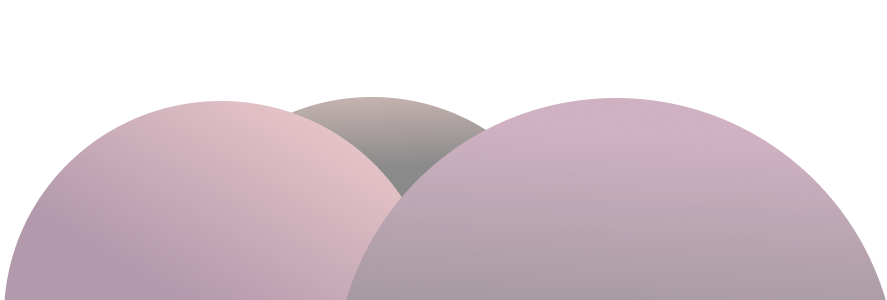
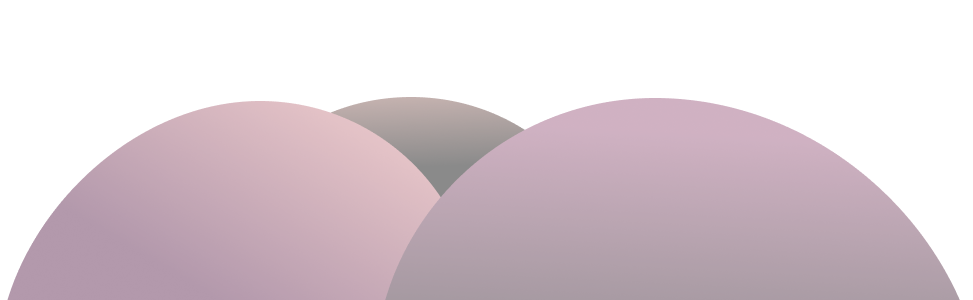
first commit

diff --git a/index.html b/index.html
@@ -1,56 +1,120 @@
 <!DOCTYPE html>
 <html lang="en">
+
 <head>
-    <meta charset="UTF-8">
-    <meta name="viewport" content="width=device-width, initial-scale=1.0">
-    <link rel="stylesheet" href="styles.css">
-    <link href="https://fonts.googleapis.com/css?family=Merriweather|Montserrat|Sacramento&amp;display=swap" rel="stylesheet">
-    <title>Probhakar</title>
+  <meta charset="UTF-8">
+  <meta name="viewport" content="width=device-width, initial-scale=1.0">
+  <link rel="stylesheet" href="styles.css">
+  <link href="https://fonts.googleapis.com/css?family=Merriweather|Montserrat|Sacramento&amp;display=swap" rel="stylesheet">
+  <link rel="icon" href="icons/favicon.ico">
+  <title>Probhakar</title>
 </head>
 
 <body>
-    <div class="top-box">
-        <img src="images/cloud.png" alt="cloud_image" class="top-cloud">
-        <h1 class="my-name">I'm Probhakar</h1>
-        <h3 class="about-me-description">love to build stuffs</h3>
-        <img src="images/balloon.png" alt="balloon_image" class="balloon-image">
-        <img src="images/cloud.png" alt="cloud_image" class="bottom-cloud">
-        <img src="images/ground.png" alt="ground_image" class="ground">
-    </div>
+  <div class="top-box">
+    <img src="images/cloud.png" alt="cloud_image" class="top-cloud">
+    <h1 class="my-name">I'm Probhakar</h1>
+    <h3 class="about-me-description">love to build stuff</h3>
+    <img src="images/balloon.png" alt="balloon_image" class="balloon-image">
+    <img src="images/cloud.png" alt="cloud_image" class="bottom-cloud">
+    <img src="images/ground.png" alt="ground_image" class="ground">
+  </div>
 
-    <div class="middle-box">
-        <img src="images/personal_photo.jpg" alt="profile_picture" class="avatar">
-        <h1>Hi.</h1>
-        <p class="my-description">I am assistant manager at Maruti Suzuki India Ltd. I love to make stuffs. Coding helps me to express things that I can imagine.
-             I am verry passionate about solving real world problems with the help of programming</p>
-        <div class="spacing"></div>
-        <hr class="horizontal-rilar">
-        <div class="spacing"></div>
-        <h1>What I love to do</h1>
-        <div class="spacing"></div>
-        <div>
-            <div class="image-holder float-left margin-right"><img src="images/processor.png" alt="processor_image"></div>
-            <h3>Electronic hobbyist</h3>
-            <p class="skill-details">First circuit that I made was a water level meter using salt-waler, pencil graphite, batteries and a LED salveged from a torch light.
-                The love for electronics continued then onwards. Every electronic hobbyist have to come across 555 timer, flipflop or LM714. I spend a lot of time making 
-                electronic gadgets like intruder detection with PIC sensor, simple ones like automatic street lamp using LDR sensors. I was also amazed to see the power of 
-                development boards like Arduino or Raspberry pi. Later I also did IoT projects with IBM Watson. What I find intriguing is that complex-real problems can be 
-                solved with these gadgets and the possibility is infinite.
-            </p>
-        </div>
-        <div class="spacing"></div>
-        <div>
-            <h3>Love to build software</h3>
-            <div class="image-holder"><img src="images/coding.png" alt="coding_image"></div>
-        </div>
-        <div>
-            <div class="image-holder"><img src="images/cooking.png" alt="coding_image"></div>
-            <h3>Cooking</h3>
-        </div>
-        <div>
-            <h3>Writing and sketching</h3>
-            <div class="image-holder"><img src="images/poem.png" alt="coding_image"></div>
-        </div>
+  <div class="middle-box">
+    <img src="images/personal_photo.jpg" alt="profile_picture" class="avatar">
+    <h1>Hi.</h1>
+    <p class="my-description">I am an assistant manager at Maruti Suzuki India Ltd. Coding helps me to express things that I can imagine.
+      I am very passionate about solving real-world problems with the help of programming</p>
+    <div class="spacing"></div>
+    <hr class="horizontal-ruler">
+    <div class="spacing"></div>
+    <h1>What I love to do</h1>
+    <div class="spacing"></div>
+    <div>
+      <div class="image-holder float-left margin-right margin-bottom"><img src="images/processor.png" alt="processor_image"></div>
+      <h3 class="text-align-left">Electronic hobbyist</h3>
+      <p class="text-align-left">First circuit that I made was a water level meter using salt-waler, pencil graphite, batteries and an LED salvaged from a torchlight.
+        The love for electronics continued then onwards. Every electronic hobbyist has to come across 555 timer, flipflop or LM714. I spent a lot of time making
+        electronic gadgets like intruder detection with PIC sensor, simple ones like automatic street lamp using LDR sensors. I was also amazed to see the power of
+        development boards like Arduino or Raspberry pi. Later I also did IoT projects with IBM Watson. What I find intriguing is that complex but real problems can be
+        solved with these gadgets and the possibility is infinite. One of my projects can be found <a href="https://www.instructables.com/id/MEASUREMENT-OF-RPM-OF-DC-MOTOR-USING-ARDUINO-AND-I/" target="_blank">here.</a>
+      </p>
     </div>
+    <div class="spacing"></div>
+    <div>
+      <div class="image-holder float-right margin-bottom margin-left"><img src="images/coding.png" alt="coding_image"></div>
+      <h3 class="text-align-left">Love to build software</h3>
+      <p class="text-align-left">I never thought of building software unless I met with <a href="https://www.python.org/" target="_blank">Python</a>. I am not a guy who will write
+        some undecipherable software shown in movies and use it through the command line, but yes, sometimes extra GUI becomes overkill. I was introduced
+        with <a href="https://kivy.org/#home" target="_blank">Kivy</a>, a cross-platform Python framework and I loved it. I can remember one of my First
+        wow moments when I successfully built a group chat application using <a href="https://python-socketio.readthedocs.io/en/latest/" target="_blank">socketio</a> and Kivy and
+        a slight touch of <a href="https://www.mysql.com/" target="_blank">MySQL</a> for the database. I also developed one functional software to compare different map providers which can be found <a href="https://github.com/epsi95/map-comparison"
+          target="_blank">here.</a>
+        Apart from python I worked with <a href="https://developer.android.com/studio" target="_blank">Android studio</a> and developed one Car-Key-Manager app, which can be used to book a car with inbuilt chat functionality. It was java until I came
+        across <a href="https://flutter.dev/" target="_blank">Flutter</a>. I am just loving this framework.
+        Some projects I am working with this framework. Apart from that, I worked with HTML, CSS & Javascript to build a functional <a href="https://github.com/epsi95/app-manager-website" target="_blank">app build management</a> website. Apart from
+        software development I also worked
+        with machine learning models to develop use cases for my organization.</p>
+    </div>
+    <div class="spacing"></div>
+    <div>
+      <div class="image-holder float-left margin-right margin-bottom"><img src="images/cooking.png" alt="coding_image"></div>
+      <h3 class="text-align-left">Cooking</h3>
+      <p class="text-align-left">Being a Bengalee is not complete if you don't know cooking. Well, I do not proclaim myself
+        as one of the top chefs but I can cook some tasty cuisines. I can remember my childhood days in a native village in West Bengal,
+        where we, friends used to play "ranna-bati" where we used to gather vegetables, rice from home and cook them in a clay pot.
+        Wise people will say cooking is an art, well everything is an art, but the point is I really love cooking.</p>
+    </div>
+    <div class="spacing"></div>
+    <div>
+      <div class="image-holder float-right margin-bottom margin-left"><img src="images/poem.png" alt="coding_image"></div>
+      <h3 class="text-align-left">Writing and sketching</h3>
+      <p class="text-align-left">Also for a Bengalee, poetry is a must. I like to indulge myself in writing
+        when I feel writing so. You can check out my small facebook <a href="https://www.facebook.com/chirkut11/" target="_blank">page</a>. You can
+        also get a glimpse of some of my paintings <a href="https://dribbble.com/shots/10159133-Sketch?utm_source=Clipboard_Shot&utm_campaign=epsi95&utm_content=Sketch&utm_medium=Social_Share" target="_blank">here.</a></p>
+    </div>
+    <div class="spacing"></div>
+    <div class="spacing"></div>
+    <hr class="horizontal-ruler">
+    <div class="spacing"></div>
+    <h1>Want to know me more?</h2>
+      <div class="spacing"></div>
+      <a href="mailto:probhakar.95@gmail.com" class="myButton">CONTACT ME</a>
+  </div>
+  <div class="spacing"></div>
+  <div class="bottom-box">
+    <div class="contact-me inline">
+      <table class="inline">
+        <tr>
+          <td><img src="images/github-logo.png" alt="GitHub_image" class="contact-icon"></td>
+          <td><a href="https://github.com/epsi95" target="_blank">
+              <h3 class="inline contact-me-anchor">GitHub</h3>
+            </a></td>
+        </tr>
+      </table>
+    </div>
+    <div class="contact-me inline">
+      <table class="inline">
+        <tr>
+          <td><img src="images/linkedin.png" alt="linkdin_pic" class="contact-icon"></td>
+          <td><a href="https://www.linkedin.com/in/probhakar-sarkar-9b810b88" target="_blank">
+              <h3 class="inline contact-me-anchor">Linkdin</h3>
+            </a></td>
+        </tr>
+      </table>
+    </div>
+    <div class="contact-me inline">
+      <table class="inline">
+        <tr>
+          <td><img src="images/basketball.png" alt="dribble_pic" class="contact-icon"></td>
+          <td> <a href="https://dribbble.com/epsi95" target="_blank">
+              <h3 class="inline contact-me-anchor">Dribble</h3>
+            </a></td>
+        </tr>
+      </table>
+    </div>
+    <p class="copyrights">© 2020 Probhakar Sarkar</p>
+  </div>
 </body>
+
 </html>

diff --git a/styles.css b/styles.css
@@ -8,6 +8,10 @@ p{
     line-height: 2;
     color: black;
 }
+a{
+  text-decoration: none;
+  color: rgb(150, 29, 108);
+}
 
 .my-description{
     width: 50%;
@@ -19,7 +23,7 @@ p{
     background-color:#FFE3DC;
     text-align: center;
     position: relative;
-    padding: 100px 0 0 0;
+    padding: 70px 0 0 0;
 }
 
 .image-holder{
@@ -52,15 +56,15 @@ h3{
 
 .top-cloud{
     position: absolute;
-    right: 25%;
+    right: 150px;
     margin-top: 100px;
     width: 200px;
 }
 
 .bottom-cloud{
     position: absolute;
-    left: 25%;
-    bottom: 300px; 
+    left: 150px;
+    bottom: 300px;
     width: 150px;
 }
 
@@ -100,7 +104,7 @@ h3{
     border-radius: 50%;
 }
 
-.horizontal-rilar{
+.horizontal-ruler{
     height: 0;
     border-style: dotted none none none;
     border-width: 10px;
@@ -112,13 +116,80 @@ h3{
 }
 
 .float-left{
-    float: left;;
+    float: left;
 }
 
-.skill-details{
+.float-right{
+    float: right;
+}
+
+.text-align-left{
     text-align: left;
 }
 
 .margin-right{
     margin-right: 50px;
+}
+
+.margin-left{
+    margin-left: 50px;
+}
+
+.margin-bottom{
+  margin-bottom: 25px;
+}
+
+.bottom-box{
+  background-color:#FFE3DC;
+  padding: 70px 0 10px 0;
+  text-align: center;
+}
+
+.inline{
+  display: inline;
+}
+
+.contact-icon{
+  width: 30px;
+  height: 30px;
+  border-radius: 50%;
+}
+
+.contact-me{
+  margin: 0 70px;
+  height: 30px;
+}
+
+.copyrights{
+  color: rgb(150, 29, 108);
+  font-size: 14px;
+  margin-top: 30px;
+}
+
+.myButton {
+	box-shadow:inset 0px 1px 0px 0px #a6827e;
+	background:linear-gradient(to bottom, #531d40 5%, #240d1c 100%);
+	background-color:#531d40;
+	border-radius:10px;
+	border:1px solid #54381e;
+	display:inline-block;
+	cursor:pointer;
+	color:#ffffff;
+	font-family:Verdana;
+	font-size:24px;
+	padding:10px 24px;
+	text-decoration:none;
+	text-shadow:0px 1px 0px #4d3534;
+}
+.myButton:hover {
+	background:linear-gradient(to bottom, #240d1c 5%, #531d40 100%);
+	background-color:#240d1c;
+}
+.myButton:active {
+	position:relative;
+	top:1px;
+}
+
+.contact-me-anchor:hover{
+  color: #e8b4a7;
 }
